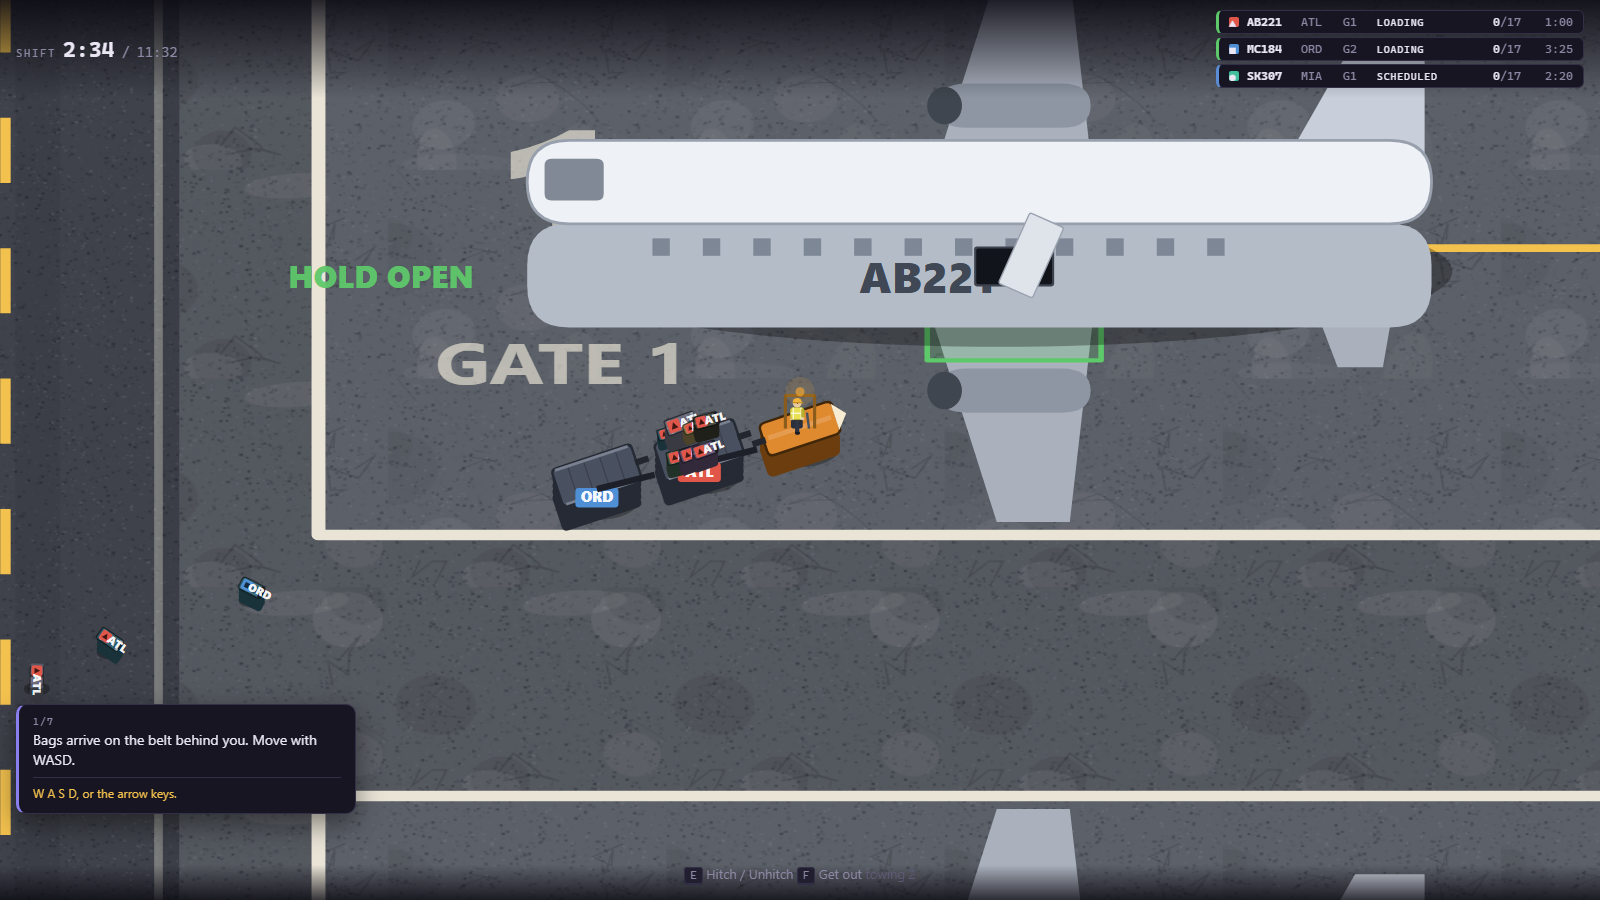
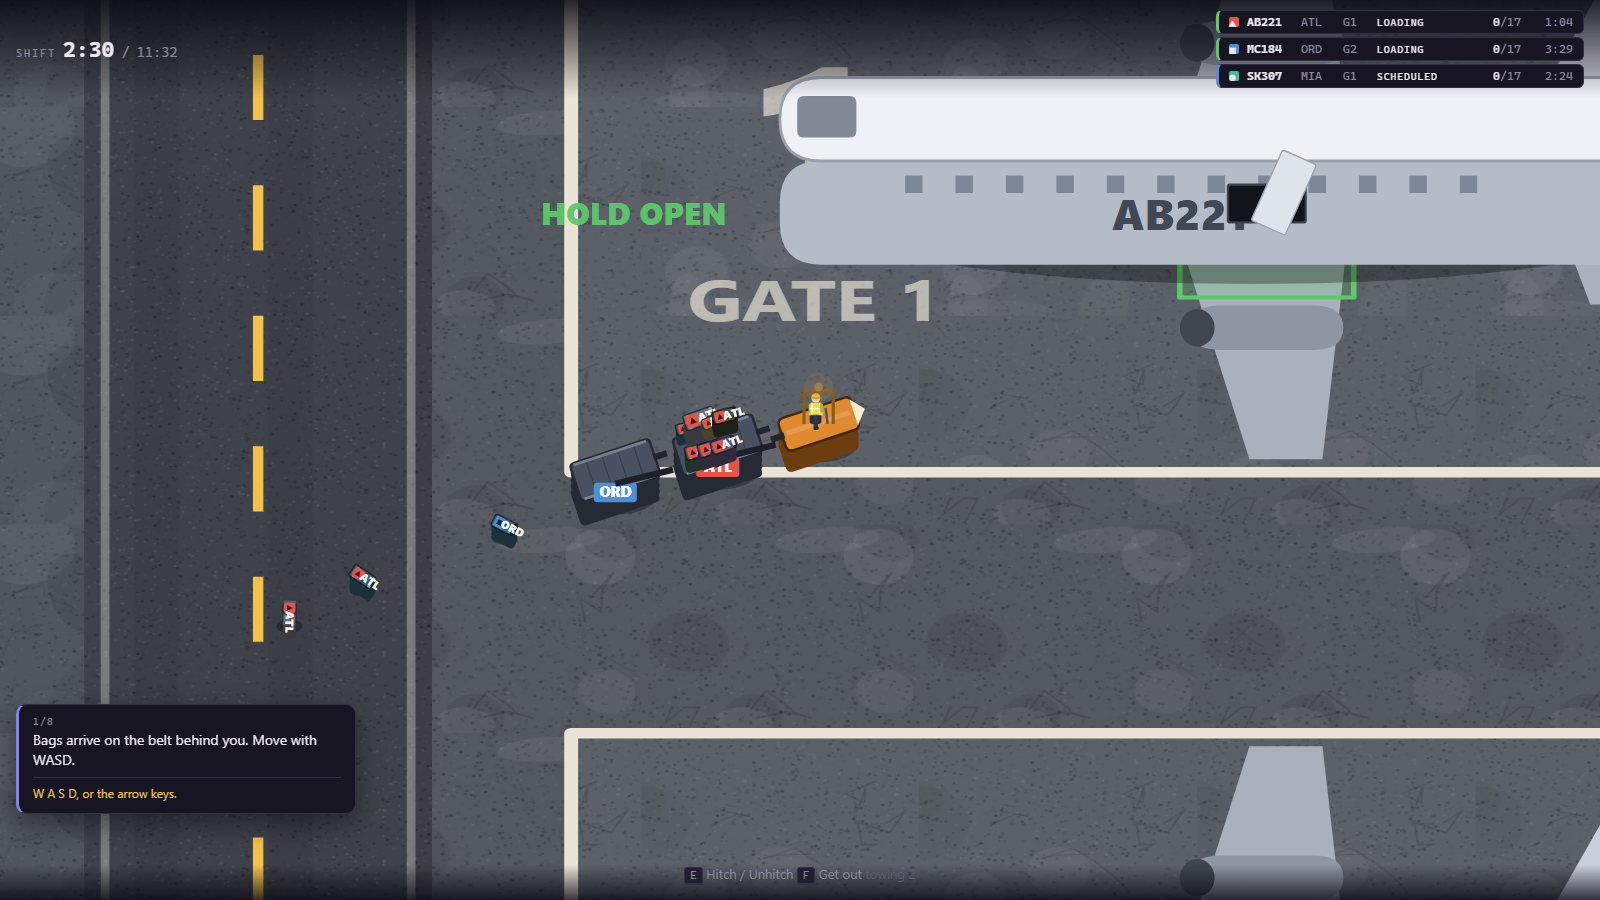
The tutorial never taught the placard
GDD 29's top open criterion is "a first-timer completes the loop unaided", and
it needs real players. A program cannot check that the teaching WORKS - but it
can check that nothing the player must do is left untaught, and that turned out
to be false.

THE RAIL WENT STRAIGHT FROM READING A BAG'S TAG TO PUTTING IT IN A CART. It
never mentioned pressing F on a cart, so a player could complete all seven
steps without ever discovering that carts can be LABELLED - the mechanic that
decides whether a bag ends up on the right aeroplane, and the difference between
+100 and -250.

It was invisible because `loadIntoCart` does not check the placard: an unmarked
cart accepts anything, so the untaught path works and merely scores badly. GDD
7.3 says sorting is "physical placement onto MARKED carts", and the rail was
teaching the placement without the marking. There is a placard step now, sitting
between the tag and the cart because the order IS the lesson: read the tag,
label a cart to match it, then load it. F placards the nearest cart whether or
not your hands are full, so it works while still holding the bag.

THE HITCH HINT TAUGHT REVERSING, which is the hard way and is not needed.
`hitchCandidate` measures from the tow point out to 3 m, so a cart you have
simply driven PAST is already in range - and CLAUDE.md has said so since M6,
because reverse-parking a vehicle whose yaw rate scales with speed is exactly
the control problem that defeated the first crew bot: 82% of every shift
[…]

diff --git a/tools/m5-tests.js b/tools/m5-tests.js
@@ -186,9 +186,47 @@ function sectionA() {
     GUIDE_STEPS.every((s) => s.text && s.hint && typeof s.done === 'function'));
 
   // The rail teaches the loop, so the loop had better be in it.
-  for (const want of ['grab', 'scan', 'cart', 'drive', 'load']) {
+  for (const want of ['grab', 'scan', 'placard', 'cart', 'drive', 'hitch', 'load']) {
     ok(`A4 the rail covers "${want}"`, ids.has(want));
   }
+
+  /*
+   * ⚠ EVERY KEY A SHIFT CANNOT BE FINISHED WITHOUT HAS TO BE NAMED SOMEWHERE IN THE RAIL.
+   *
+   * This is the closest a program can get to GDD §29's "a first-timer completes the loop
+   * unaided", which is one of the five criteria the suite reports OPEN because it needs
+   * real players. It cannot check that the teaching WORKS — but it can check that nothing
+   * the player must do is left untaught, and that is a real property with a real failure.
+   *
+   * It has one already: the rail went straight from reading a bag's tag to putting it in
+   * a cart and never mentioned F on a cart at all, so a player could complete all seven
+   * steps without discovering that carts can be LABELLED — the mechanic that decides
+   * whether a bag ends up on the right aeroplane, and the difference between +100 and
+   * −250. It was invisible because `loadIntoCart` does not check the placard, so the
+   * untaught path works and merely scores badly.
+   */
+  const railText = GUIDE_STEPS.map((s) => `${s.text} ${s.hint}`).join(' ').toUpperCase();
+  const MUST_TEACH = [
+    { key: 'E', why: 'pick a bag up, load a cart, load a hold, hitch a cart' },
+    { key: 'Q', why: 'read a tag' },
+    { key: 'F', why: 'get into the tractor, and label a cart' },
+    { key: 'WASD', why: 'move on foot and drive' },
+  ];
+  for (const m of MUST_TEACH) {
+    const named = m.key === 'WASD'
+      ? /WASD|W A S D/.test(railText)
+      : new RegExp(`\\b${m.key}\\b`).test(railText);
+    ok(`A4b the rail names "${m.key}" — needed to ${m.why}`, named);
+  }
+
+  // And the placard specifically, by its EFFECT rather than by its step id, so renaming
+  // the step cannot quietly drop the lesson.
+  ok('A4c one step is satisfied by labelling a cart, not merely by filling one',
+     GUIDE_STEPS.some((s) => {
+       const blank = { cartsById: { c: { bagIds: [], placardFlightId: 'flight_AB221' } } };
+       const filled = { cartsById: { c: { bagIds: ['b'], placardFlightId: null } } };
+       try { return s.done(blank) && !s.done(filled); } catch (e) { void e; return false; }
+     }));
 
   const g = newGame();
   g.startShift();
@@ -217,12 +255,15 @@ function sectionB() {
   const bag = Object.values(st.bagsById)[0] || null;
   const cart = Object.values(st.cartsById)[0];
   st.player.carryingBagId = bag ? bag.id : 'x';
+  // A LABELLED cart, not merely a full one: the rail teaches the placard before the load,
+  // so a fixture that fills a blank cart satisfies "cart" and stalls on "placard".
+  cart.placardFlightId = Object.keys(st.flightsById)[0];
   cart.bagIds.push('fake');
   st.player.drivingId = Object.keys(st.vehiclesById)[0];
   cart.hitchedToId = st.player.drivingId;
 
   const view = stepGuide(g.guide, st);
-  ok('B1 six satisfied steps collapse in one call', view && view.id === 'load',
+  ok('B1 every satisfied step collapses in one call', view && view.id === 'load',
     JSON.stringify(view));
   eq('B2 the counter jumped rather than crawled', view.n, GUIDE_STEPS.length);
 

diff --git a/src/systems/onboarding.js b/src/systems/onboarding.js
@@ -36,9 +36,34 @@ export const GUIDE_STEPS = [
     done: (s) => s.stats.scans > 0,
   },
   {
+    /*
+     * ⚠ THE RAIL USED TO SKIP STRAIGHT FROM THE TAG TO THE CART, and a player could
+     * finish the whole tutorial without ever learning that carts can be LABELLED.
+     *
+     * Carts start blank, and `loadIntoCart` does not check the placard, so putting a bag
+     * in an unmarked cart works — which is why the omission was invisible. But an unmarked
+     * cart is just a box: the placard is what makes it "the ATL cart", it is how the
+     * scanner can tell you a bag is in the wrong one, and loading a bag onto the wrong
+     * aircraft is −250. GDD §7.3 says sorting is "physical placement onto MARKED carts",
+     * and the rail was teaching the placement without the marking.
+     *
+     * It sits here because the order is the lesson: read the tag, label a cart to match
+     * it, then put the bag in. F placards the nearest cart whether or not your hands are
+     * full, so the player can do this still holding the bag from the step before.
+     */
+    id: 'placard',
+    text: 'Label a cart for that flight — stand at one and press F.',
+    hint: 'F cycles the placard through the flights and back to blank. Match the tag.',
+    done: (s) => Object.values(s.cartsById).some((c) => !!c.placardFlightId),
+  },
+  {
     id: 'cart',
-    text: 'Put it in the cart on the matching gate bay — walk over and press E.',
-    hint: 'GATE 1 and GATE 2 are painted on the floor. The tag says which one.',
+    text: 'Now put the bag in the cart you just labelled — walk over and press E.',
+    // Was "GATE 1 and GATE 2 are painted on the floor" — which points at the painted
+    // staging pads, and those do almost nothing: their only mechanical effect is that
+    // the scanner will comment on a bag lying loose on one. The cart's PLACARD is the
+    // thing that matters, so the hint names that instead.
+    hint: 'The placard on the cart and the tag on the bag should read the same flight.',
     done: (s) => Object.values(s.cartsById).some((c) => c.bagIds.length > 0),
   },
   {
@@ -49,8 +74,19 @@ export const GUIDE_STEPS = [
   },
   {
     id: 'hitch',
-    text: 'Back up to a cart and press E to hitch it.',
-    hint: 'The hitch is behind the tractor — reverse with S until the cart is close.',
+    /*
+     * ⚠ THIS USED TO TEACH REVERSING, WHICH IS THE HARD WAY AND IS NOT NEEDED.
+     *
+     * `hitchCandidate` measures from the tow point — 1.3 m behind the tractor — out to
+     * `hitchRangeM` of 3 m, so a cart you have simply driven PAST is already in range.
+     * The old hint said "reverse with S until the cart is close", and reverse-parking a
+     * vehicle whose yaw rate scales with speed is a disproportionately hard control
+     * problem for something the geometry never asked for: the first version of the crew
+     * bot spent 82% of every shift steering backwards in circles and hitched nothing.
+     * Teaching a first-timer the technique that defeated the bot is the wrong way round.
+     */
+    text: 'Drive past a cart so it ends up behind you, then press E to hitch it.',
+    hint: 'The hitch is behind the tractor, so drive forward past the cart — no reversing.',
     done: (s) => Object.values(s.cartsById).some((c) => c.hitchedToId),
   },
   {

diff --git a/README.md b/README.md
@@ -14,7 +14,7 @@ There is no build step: the game is plain ES modules and static files, and Pages
 serves them over http, which is the one thing the game needs (see below).
 
 **Current state: Phase 1 feature-complete, plus a hardening pass and an audit of the
-tests themselves. 1330 assertions green across ten suites.**
+tests themselves. 1337 assertions green across ten suites.**
 Three flights, fifty-one bags, eleven and a half minutes. Bags arrive on a conveyor, get
 sorted into marked carts, hauled to a gate behind a tractor, and loaded into an aircraft
 hold — and the aircraft leave on the clock whether you are ready or not. The shift ends
@@ -45,7 +45,7 @@ went red on a design claim it encodes. A game anybody can finish has no pressure
 
 ![The shift report at the end of a played shift](docs/m6-report.png)
 
-It has sound, and it teaches itself. A seven-step rail walks you through the loop
+It has sound, and it teaches itself. An eight-step rail walks you through the loop
 **without ever stopping the clock** — the flights are already running while you learn to
 pick a bag up, because a tutorial that paused the airport would be teaching a lie about
 the only thing the game is about. Settings cover volumes, reduced motion, text size and a
@@ -190,7 +190,7 @@ returns early after a failure. Both drain coverage in total silence. `tools\test
 holds a baseline count for each suite and the run fails when the number moves, in either
 direction, which is the moment somebody has to look at it.
 
-All 1330 assertions also pass under Edge:
+All 1337 assertions also pass under Edge:
 
 ```bash
 tools\test.ps1 -Browser edge
@@ -363,7 +363,7 @@ Milestone 5 — onboarding and juice:
 | | |
 |---|---|
 | A 200 s shift, run with live audio and with none | `describe()` snapshots identical to the byte |
-| The rail | 7 steps · 11 s on one step before the hint appears |
+| The rail | 8 steps · 11 s on one step before the hint appears |
 | Schedule-pressure assist | multiplies the authored shift: Relaxed 1.15×, Unhurried 1.35× |
 | 600 live frames with audio wired in | 0.020 ms per frame against a 16.7 ms budget |
 
@@ -381,7 +381,7 @@ src/
   systems/        containment · baggageFlow · hitching · interaction · physics
                   flightSchedule · announcements · scoring · save
                   audio.js       every sound, inert until a user gesture arms it
-                  onboarding.js  the seven-step rail, advisory over a live shift
+                  onboarding.js  the eight-step rail, advisory over a live shift
   render/         camera · renderer · sprites · textures · fx (all Canvas 2D)
   ui/             hud.js · scannerCard.js · flightBoard.js · shiftReport.js
                   settings.js    volumes · reduced motion · text size · assist

diff --git a/CLAUDE.md b/CLAUDE.md
@@ -50,7 +50,7 @@ Dev-wide catalog of what already exists and where to copy it from.
   `docs/m5-oblique.png`, `docs/m5-oblique-sortroom.png`.
 - 2026-08-20 — **M5 DONE.** Onboarding and juice. `systems/audio.js` (WebAudio, inert
   until a gesture arms it, subscribing to the same bus the effects use);
-  `systems/onboarding.js` (a seven-step rail over a completely live shift — no training
+  `systems/onboarding.js` (an eight-step rail over a completely live shift — no training
   pauses, because the airport never waits); `ui/settings.js` (volumes, reduced motion,
   text scale, guide toggle, and a schedule-pressure assist). Measured: a 200 s shift with
   live audio attached and one with none produce byte-identical `describe()` snapshots;
@@ -117,7 +117,7 @@ Dev-wide catalog of what already exists and where to copy it from.
   both found by the invariant sweep rather than by eye: `separate()` normalised a
   degenerate contact with a divisor of 1e-6 and flung a bag **181 km** out of the world,
   and separation could shove a bag through the sort-room wall where nothing could reach
-  it. **1330 assertions, ten suites, soak clean across 21 fuzzed shifts.**
+  it. **1337 assertions, ten suites, soak clean across 21 fuzzed shifts.**
 
 ## Phase 1 is done. What is actually left
 
